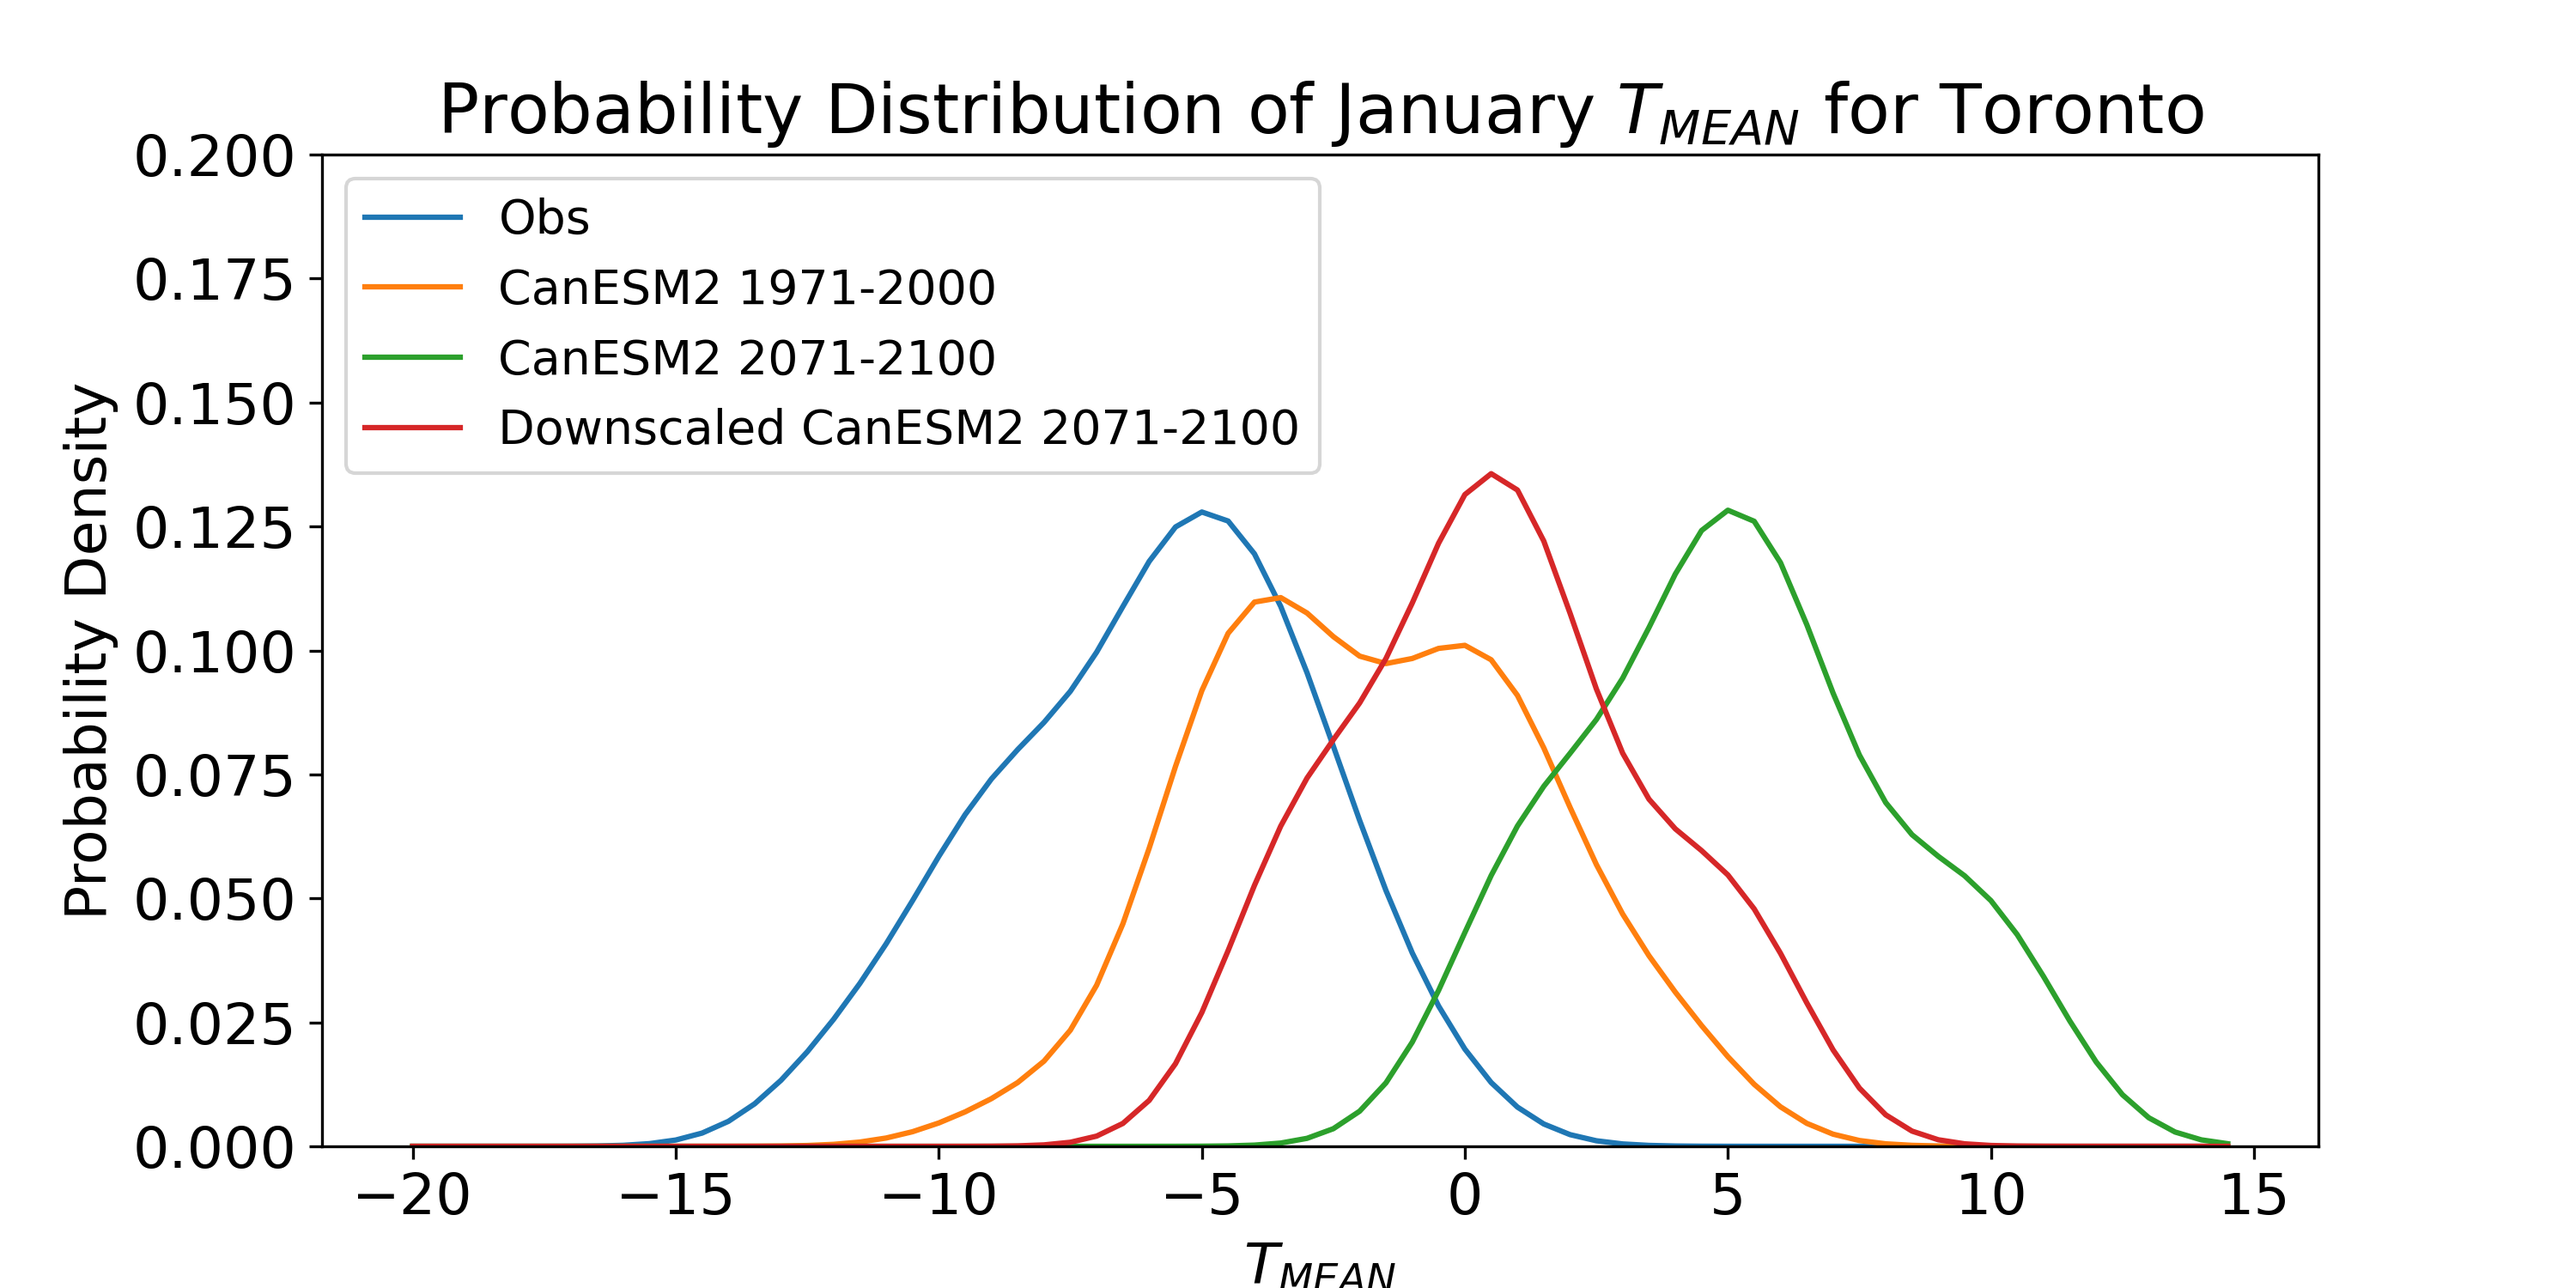
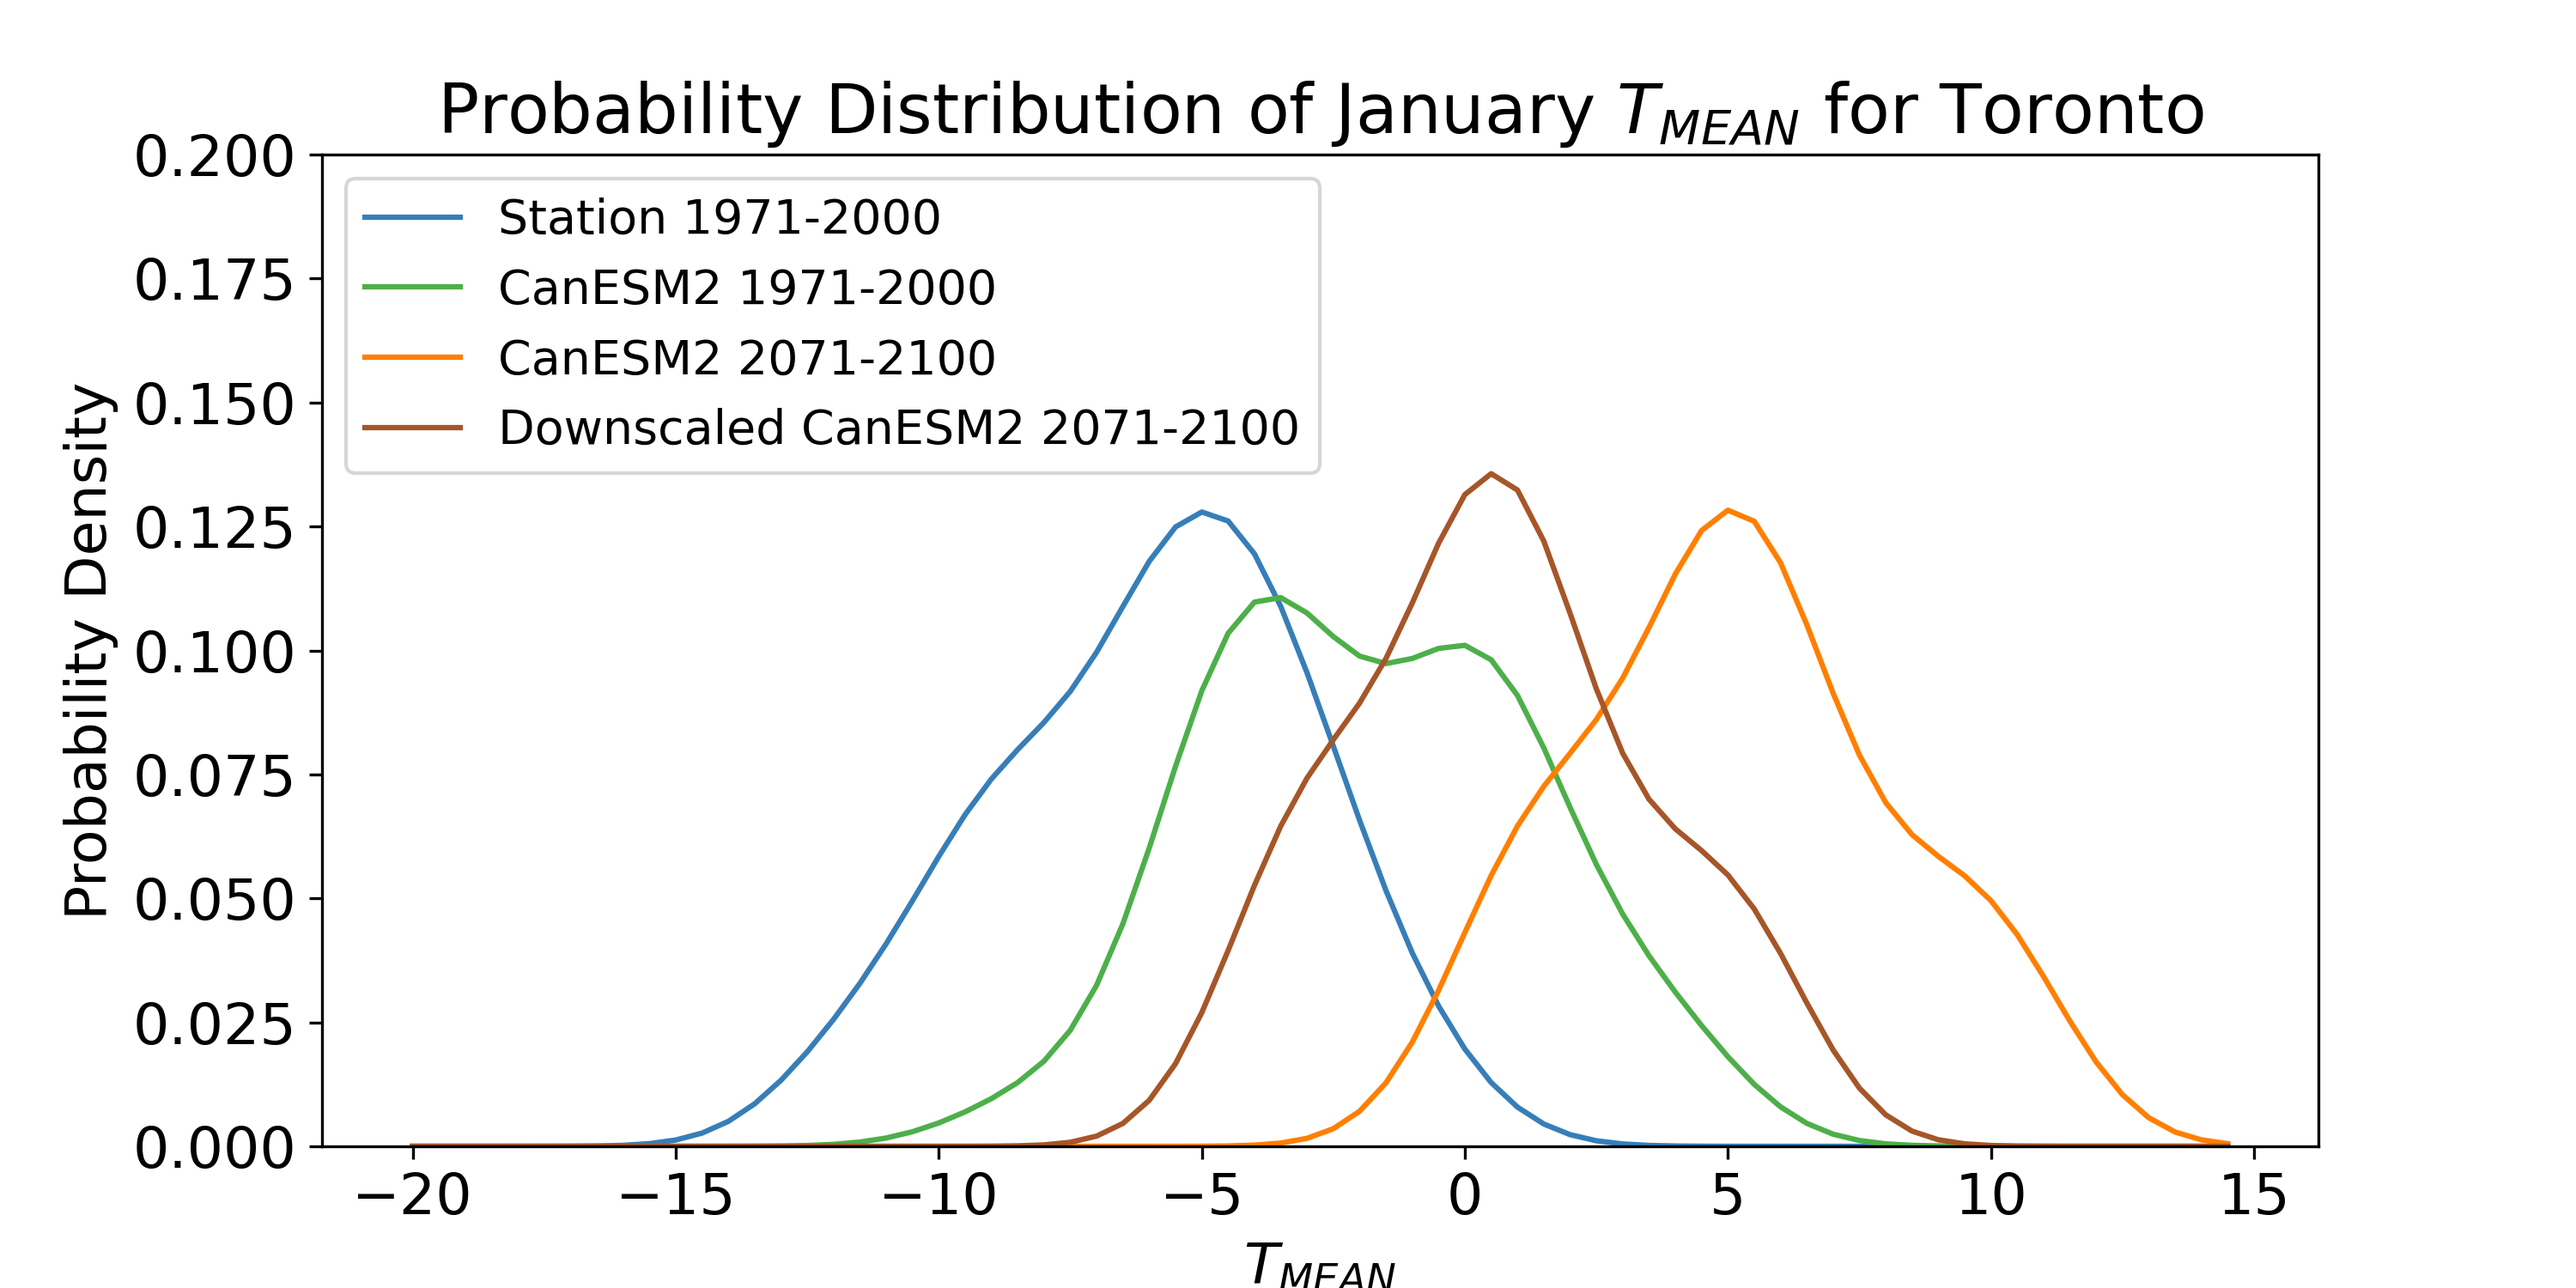
updated figures to match colours of each curve

diff --git a/Chapter4/section4.1_downscaling_methods.md b/Chapter4/section4.1_downscaling_methods.md
@@ -20,7 +20,7 @@ In the next figure, the bias-corrected (or "downscaled") distribution is shown i
 
 ![](./figures/deltamethod_JanTMean_sds.png)
 
-The time series of the bias-corrected output is shown in the third figure. Notice how the month-to-month fluctuations in the bias-adjusted (red) curve match those for the station data exactly. This is again by construction, since this time series was produced by simply adding a constant to the station data.
+The time series of the bias-corrected output is shown in the third figure. Notice how the month-to-month fluctuations in the bias-adjusted (brown) curve match those for the station data exactly. This is again by construction, since this time series was produced by simply adding a constant to the station data.
 
 ![](./figures/timeseries_JanTMean_deltamethod.png)
 
